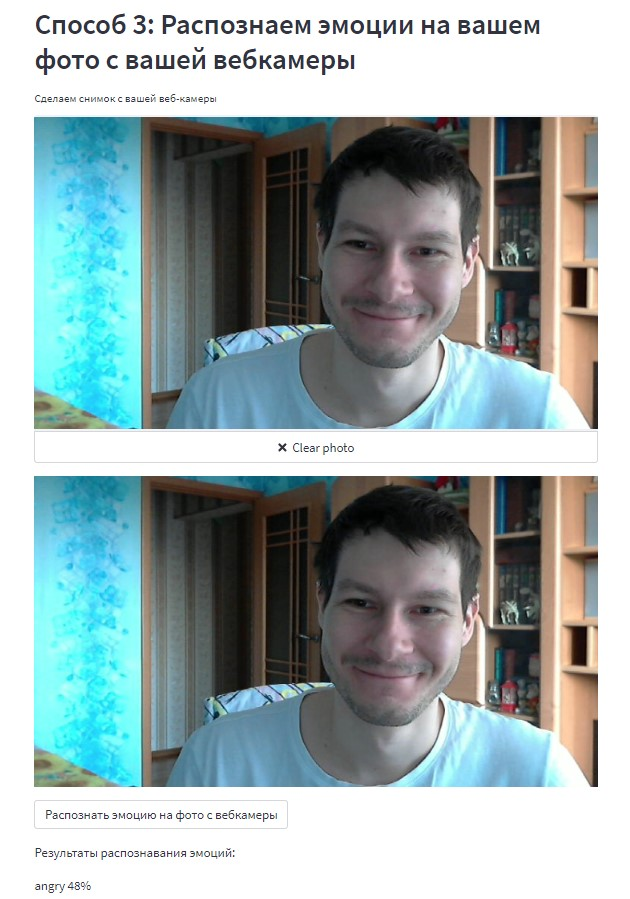
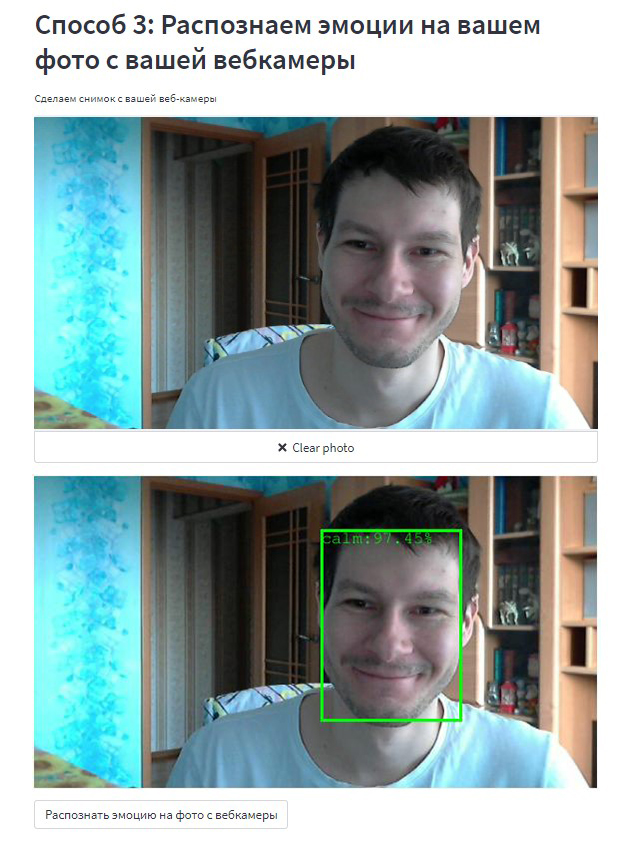
docs(docs repo): Обновить описание на новый вид веб приложения
Обновить описание на новый вид веб приложения

diff --git a/README.md b/README.md
@@ -1,12 +1,13 @@
 # Описание
 
-Репозиторий содержит код для развертывания приложения для классификации эмоций человека по фото в облаке `Streamlit Cloud`.
+Репозиторий содержит код для развертывания веб-приложения для классификации эмоций человека по фото на `Streamlit`.
 
-![Распознавание_эмоций_на_фото_примере](repo_pics/Распознавание_эмоций_на_фото_примере.jpg)
+![Распознавание_эмоций_на_фото_примере](repo_pics/Распознавание_эмоций_на_фото_примере_1.jpg)
 
-![Распознавание_эмоций_на_фото_с_вашего_пк](repo_pics/Распознавание_эмоций_на_фото_с_вашего_пк.jpg)
+![Распознавание_эмоций_на_фото_примере](repo_pics/Распознавание_эмоций_на_фото_примере_2.jpg)
+
+![Распознавание_эмоций_на_фото_с_вашего_пк_1](repo_pics/Распознавание_эмоций_на_фото_с_вашего_пк_1.jpg)
+
+![Распознавание_эмоций_на_фото_с_вашего_пк_1](repo_pics/Распознавание_эмоций_на_фото_с_вашего_пк_2.jpg)
 
 ![Распознавание_эмоций_с_веб_камеры](repo_pics/Распознавание_эмоций_с_веб_камеры.jpg)
-
-
-Ссылка на запущенное веб-приложение([ссылка](https://medphisiker-emotion-streamlit-app-streamlit-start-n8kbdm.streamlit.app/)).
